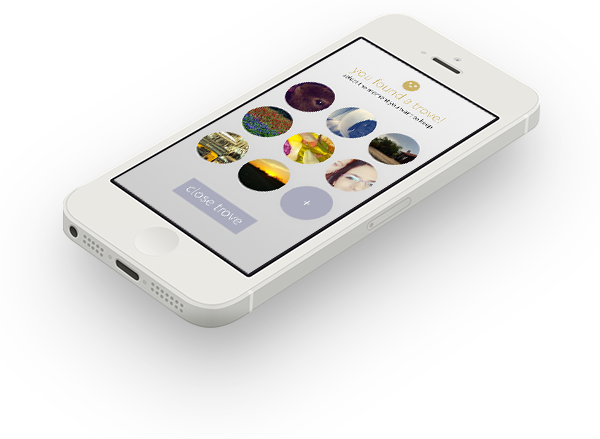
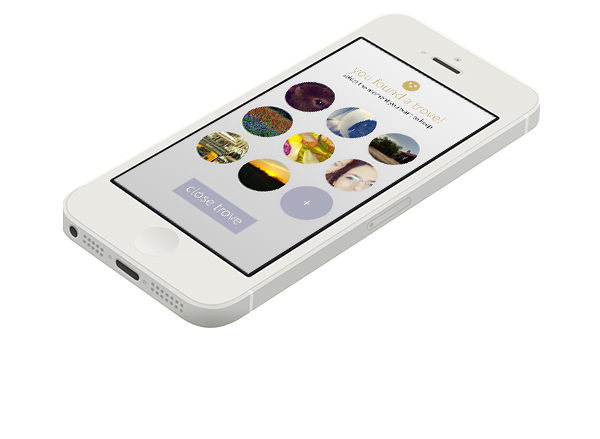
fixed some elements

Changed region(s): [[0.09, 0.2961, 0.9, 0.8588]]

diff --git a/css/style.css b/css/style.css
@@ -9,8 +9,8 @@
 }
 
 * { margin: 0; padding: 0;}
-body	{ font-family: 'Source Sans Pro'; font-weight: 300; }
-header { background: #fff; padding: 10px 0; width: 100%; }
+body	{ font-family: 'Source Sans Pro'; font-weight: 300;  }
+header { z-index: 10; border-bottom: 1px solid rgba(0,0,0,0.1); background: #fff; padding: 10px 0; width: 100%; position: fixed; }
 header img	{ display: block; width: 44px; height:44px; position:absolute; margin: 5px 0 0 -60px;}
 header h1	{ color: #cbb266; font-size: 35px; font-weight: 300; position: absolute; margin-left: 60px; }
 nav	{ text-align: right; }
@@ -26,19 +26,33 @@ header:hover img {
 
 blockquote	{ font-size: 50px; color: #ffffff; }
 
-
 section.hero {
-  background: #aaacbb;
+  top: 54px;
+  position: fixed;
+  background: #eee;
+  z-index: -5;
+  width: 100%;
+  background: -webkit-linear-gradient(#c8bbe3,#8789be);
   color: white;
-  height: 320px;
+  height: 340px;
   padding: 50px;
 }
 
+section.appinfo {
+  height: 2000px;
+  position: relative;
+  z-index: 0;
+  background:#fff;
+  top: 394px;
+}
 div.app {
   width: 600px;
   height: 439px;
   background: red;
   background: url('../images/app.png');
-  margin-top: -50px;
+  margin-top: -30px;
+  margin-right: -50px;
+  float: right;
+
   
 }

diff --git a/index.html b/index.html
@@ -21,7 +21,8 @@
 		<section class="hero">
 		<div class="container">
 			
-				<blockquote id="moments-promo">We do not remember days, we remember <strong>moments.</strong></blockquote>
+				<blockquote id="moments-promo">We do not remember days.<br/>
+				We remember <strong>moments.</strong></blockquote>
 				<blockquote id="trove-mission">Trove is for moments worth sharing.</blockquote>
 		</div>
 		</section>
@@ -30,7 +31,6 @@
 			<div class="container">
 				<div class="app"></div>
 			</div>
-
 		</section>
 	</body>
 </html>
